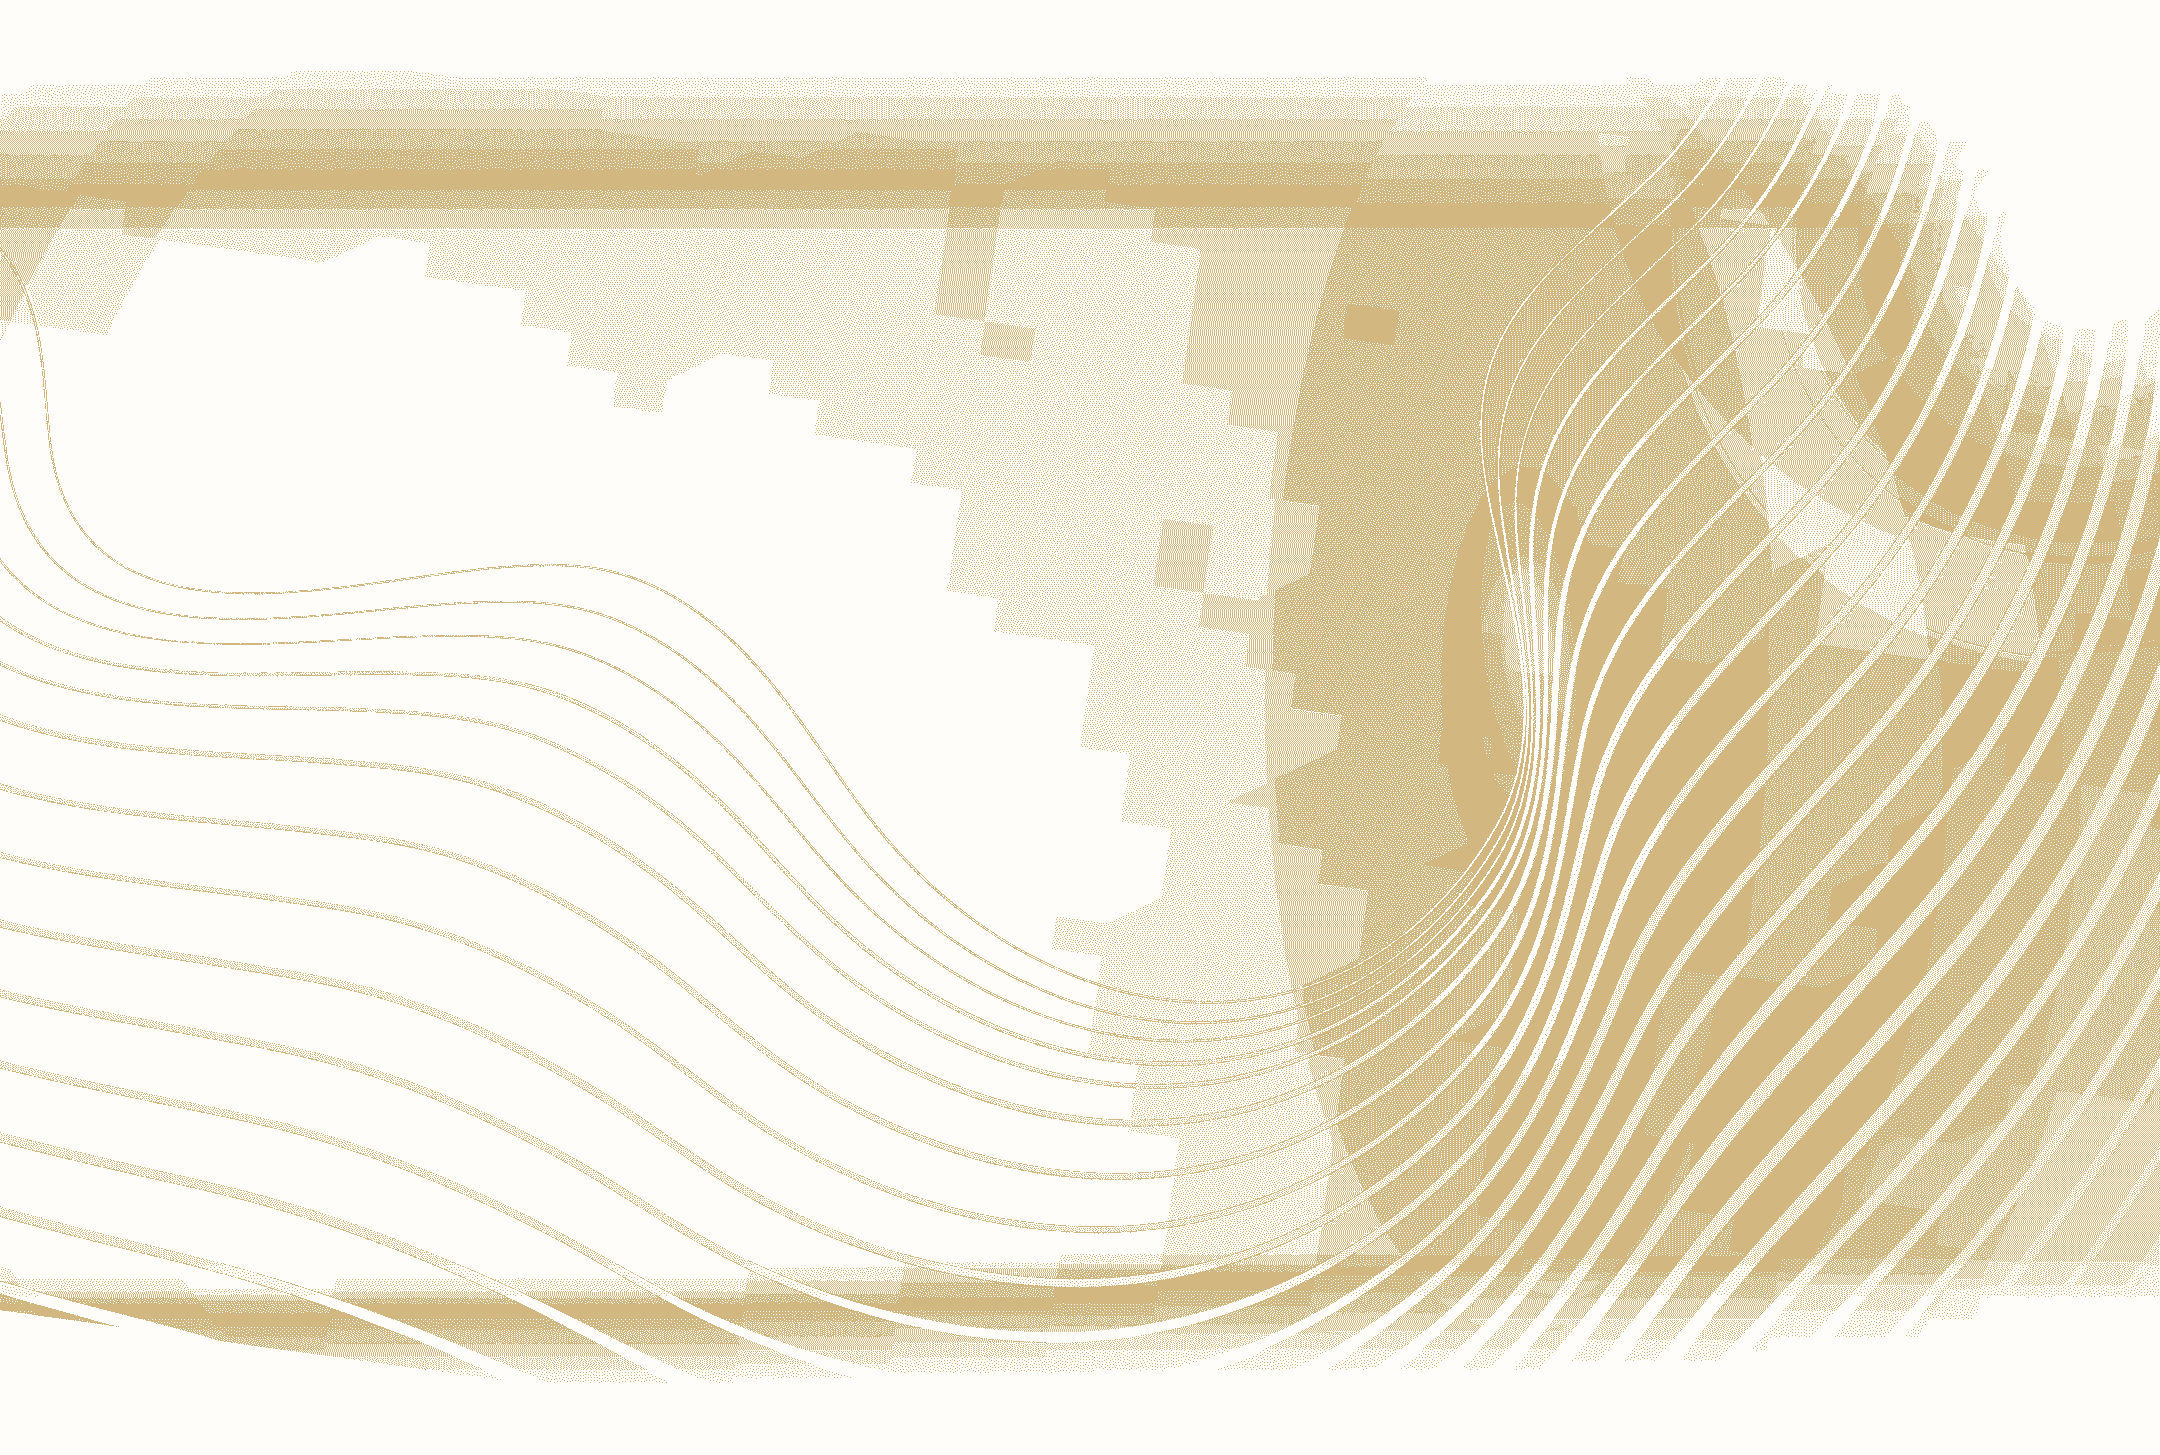
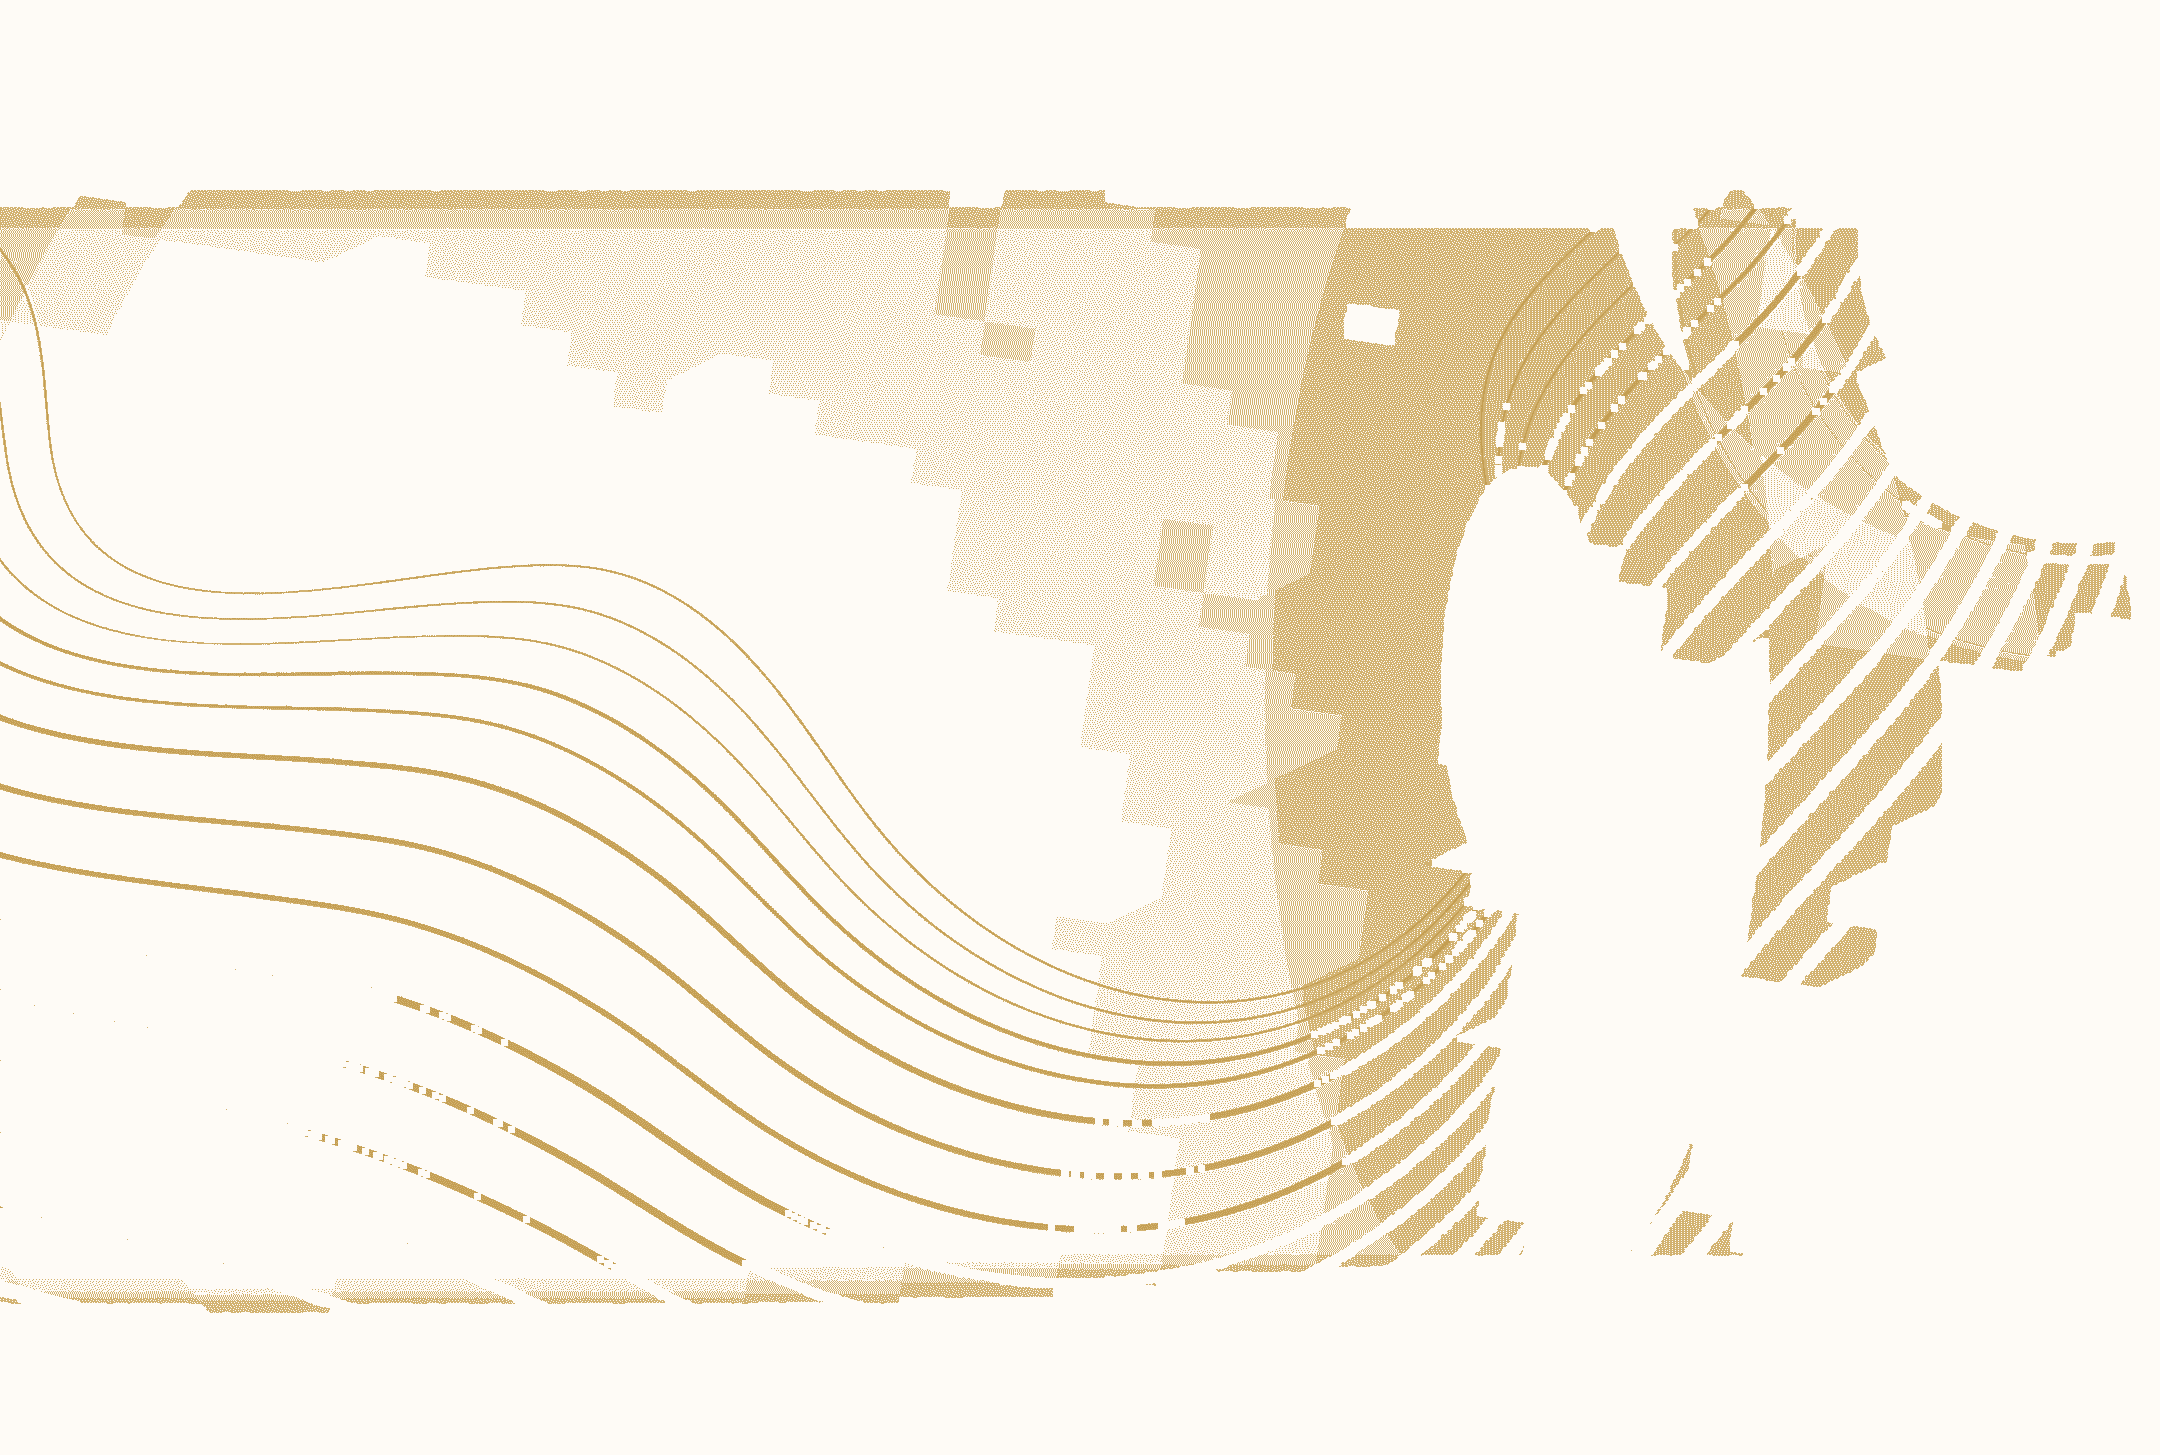
fixed the herader

diff --git a/src/App.tsx b/src/App.tsx
@@ -95,6 +95,37 @@ function Logoipsum() {
   )
 }
 
+function HeroWaves() {
+  const paths = Array.from({ length: 8 }, (_, i) => {
+    const t = i / 7
+    const gapX = 50
+    const gapY = 80 + t * 5.5
+    const leftY = 34 + t * 16
+    const rightY = 16 + t * 22
+    return `M -8 ${leftY} C 22 ${leftY + 12}, 36 ${gapY - 1}, ${gapX} ${gapY} S 78 ${rightY + 14}, 108 ${rightY}`
+  })
+
+  return (
+    <svg
+      className="hero-waves"
+      viewBox="0 0 100 100"
+      preserveAspectRatio="none"
+      aria-hidden="true"
+    >
+      {paths.map((d) => (
+        <path
+          key={d}
+          d={d}
+          fill="none"
+          stroke="currentColor"
+          strokeWidth="1.05"
+          vectorEffect="non-scaling-stroke"
+        />
+      ))}
+    </svg>
+  )
+}
+
 function QuoteCard({
   quote,
   avatar,
@@ -385,7 +416,9 @@ export default function App() {
       </nav>
 
       <header className="hero" id="top">
-        <motion.img className="hero-bg" src={img.heroBg} alt="" style={{ y: heroBgY }} />
+        <motion.div className="hero-waves-wrap" style={{ y: heroBgY }}>
+          <HeroWaves />
+        </motion.div>
         <div className="hero-copy">
           <motion.p
             className="hero-kicker"

diff --git a/src/style.css b/src/style.css
@@ -340,18 +340,21 @@ button {
   isolation: isolate;
 }
 
-.hero-bg {
+.hero-waves-wrap {
   position: absolute;
   inset: 0;
-  z-index: 0;
+  z-index: 1;
+  pointer-events: none;
+  overflow: hidden;
+}
+
+.hero-waves {
+  position: absolute;
+  inset: 0;
   width: 100%;
   height: 100%;
-  object-fit: cover;
-  object-position: center bottom;
-  pointer-events: none;
-  opacity: 0.55;
-  filter: sepia(0.45) saturate(0.7);
-  mix-blend-mode: multiply;
+  color: var(--gold);
+  opacity: 0.48;
 }
 
 .hero-hands {
